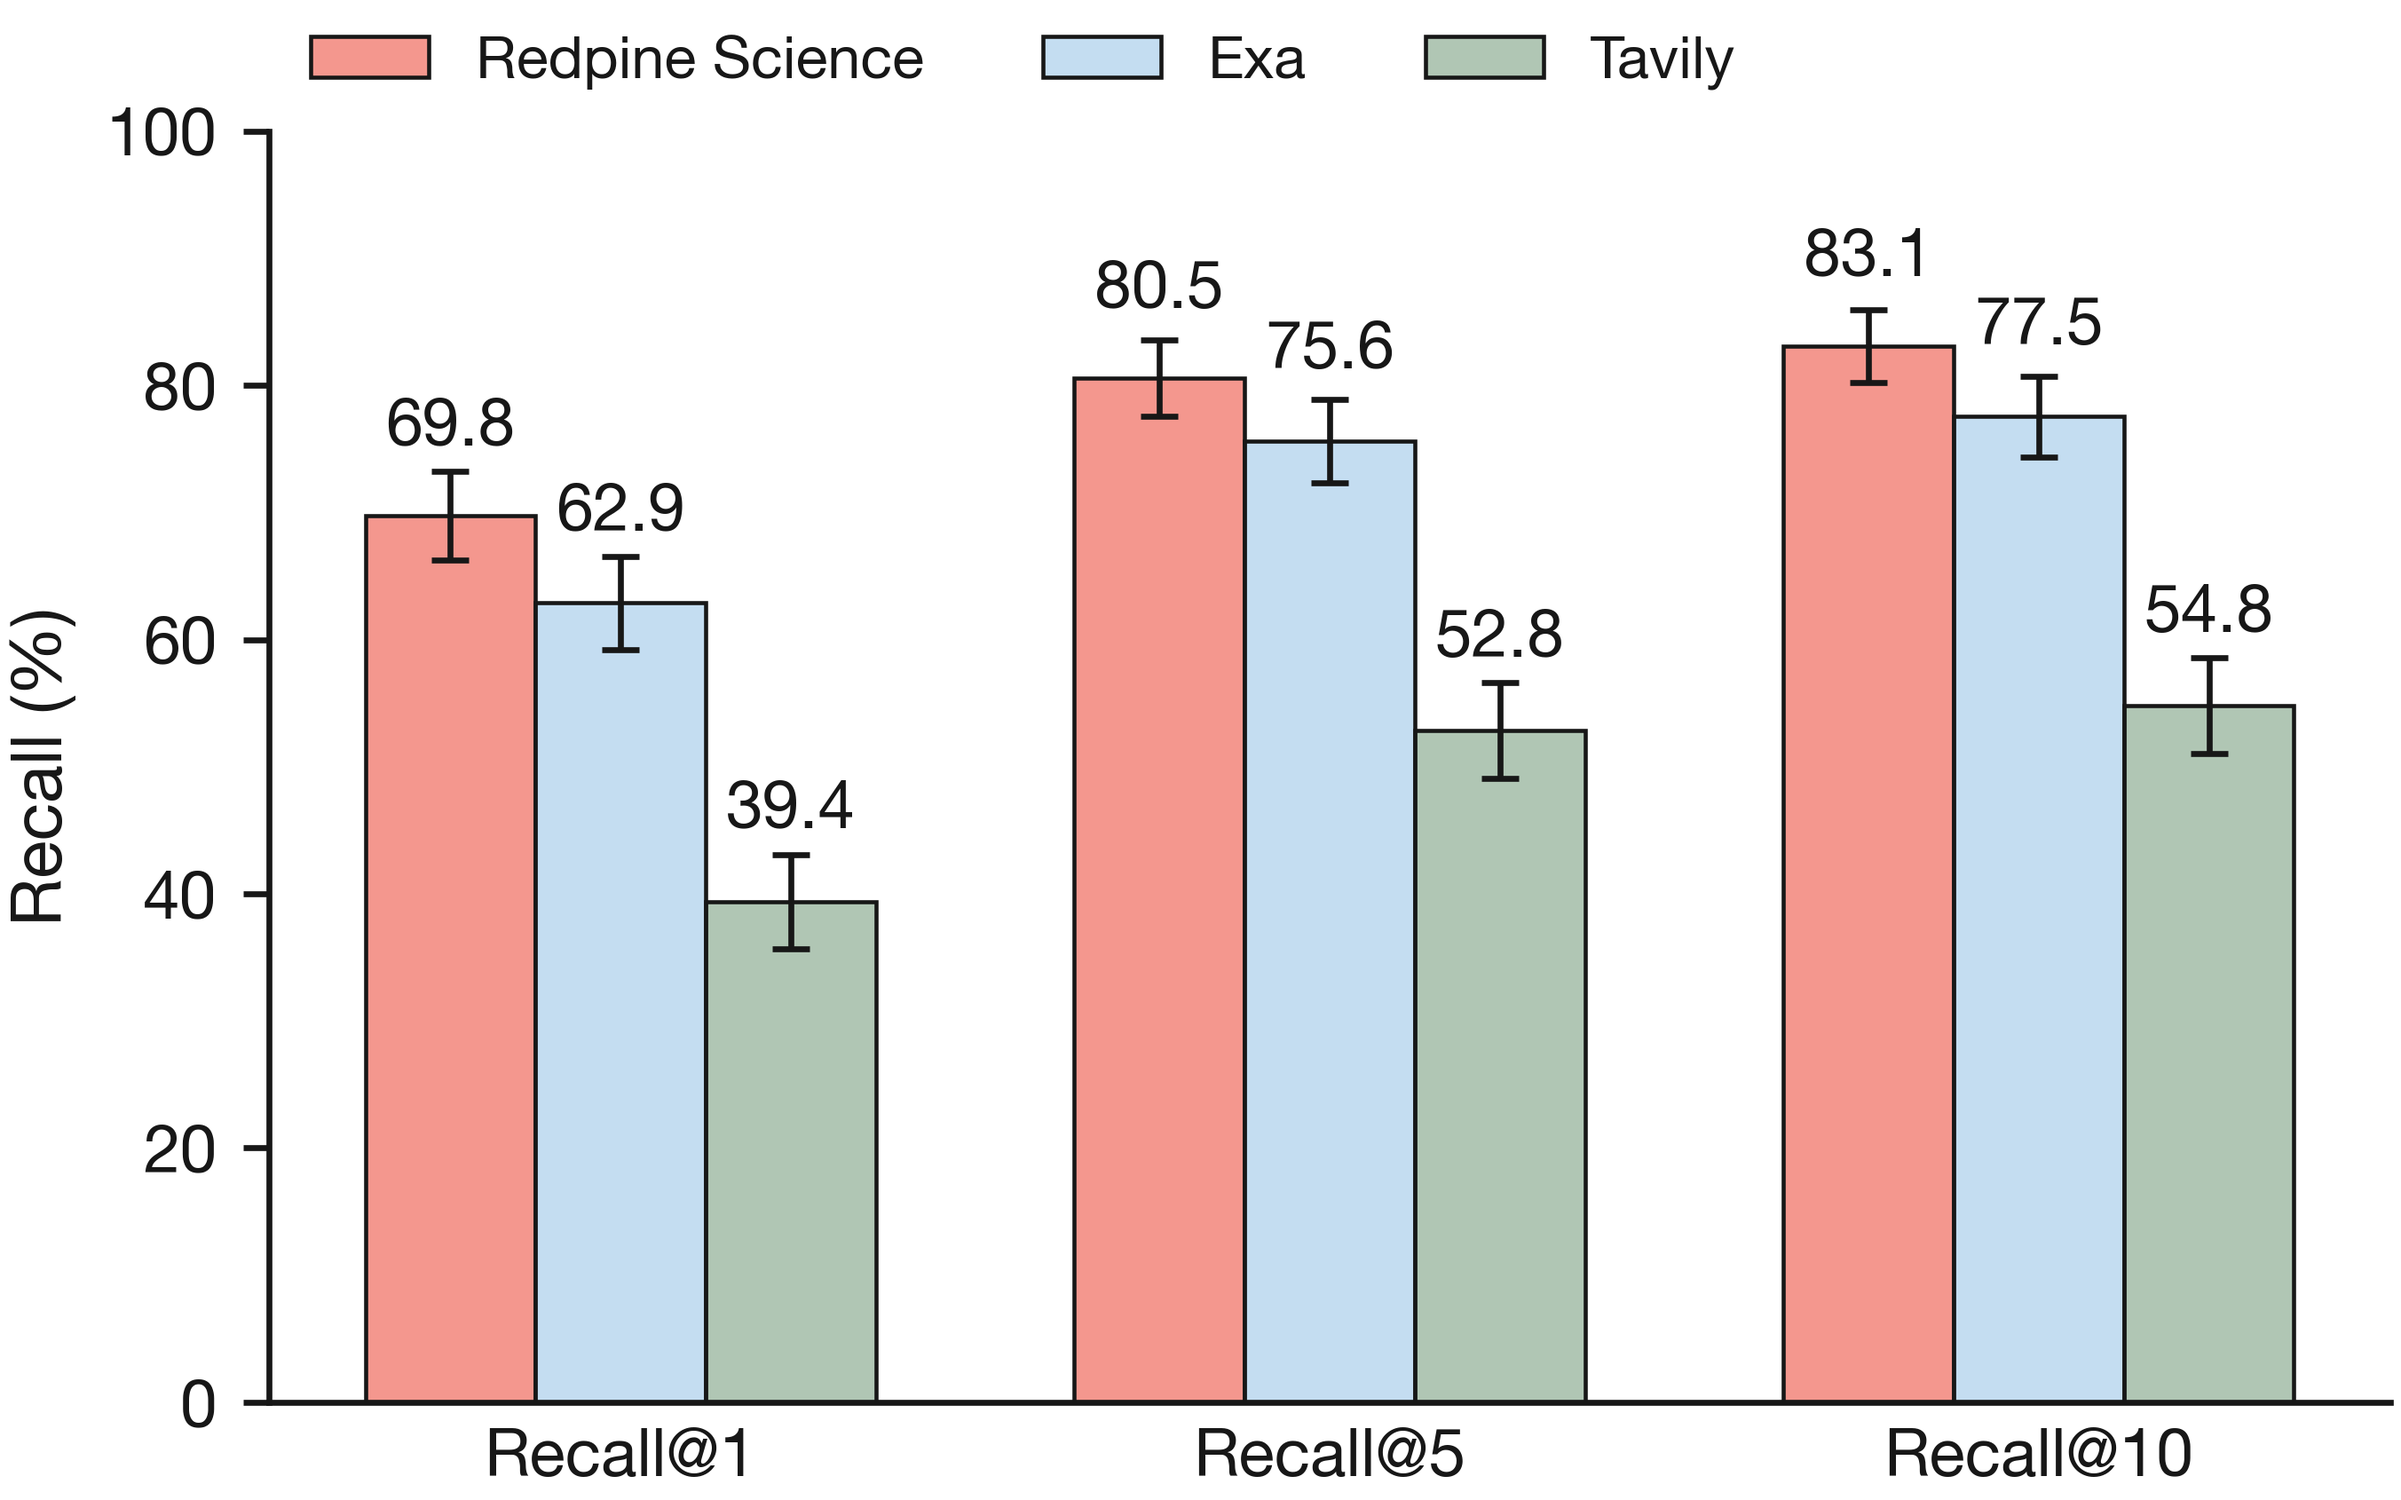
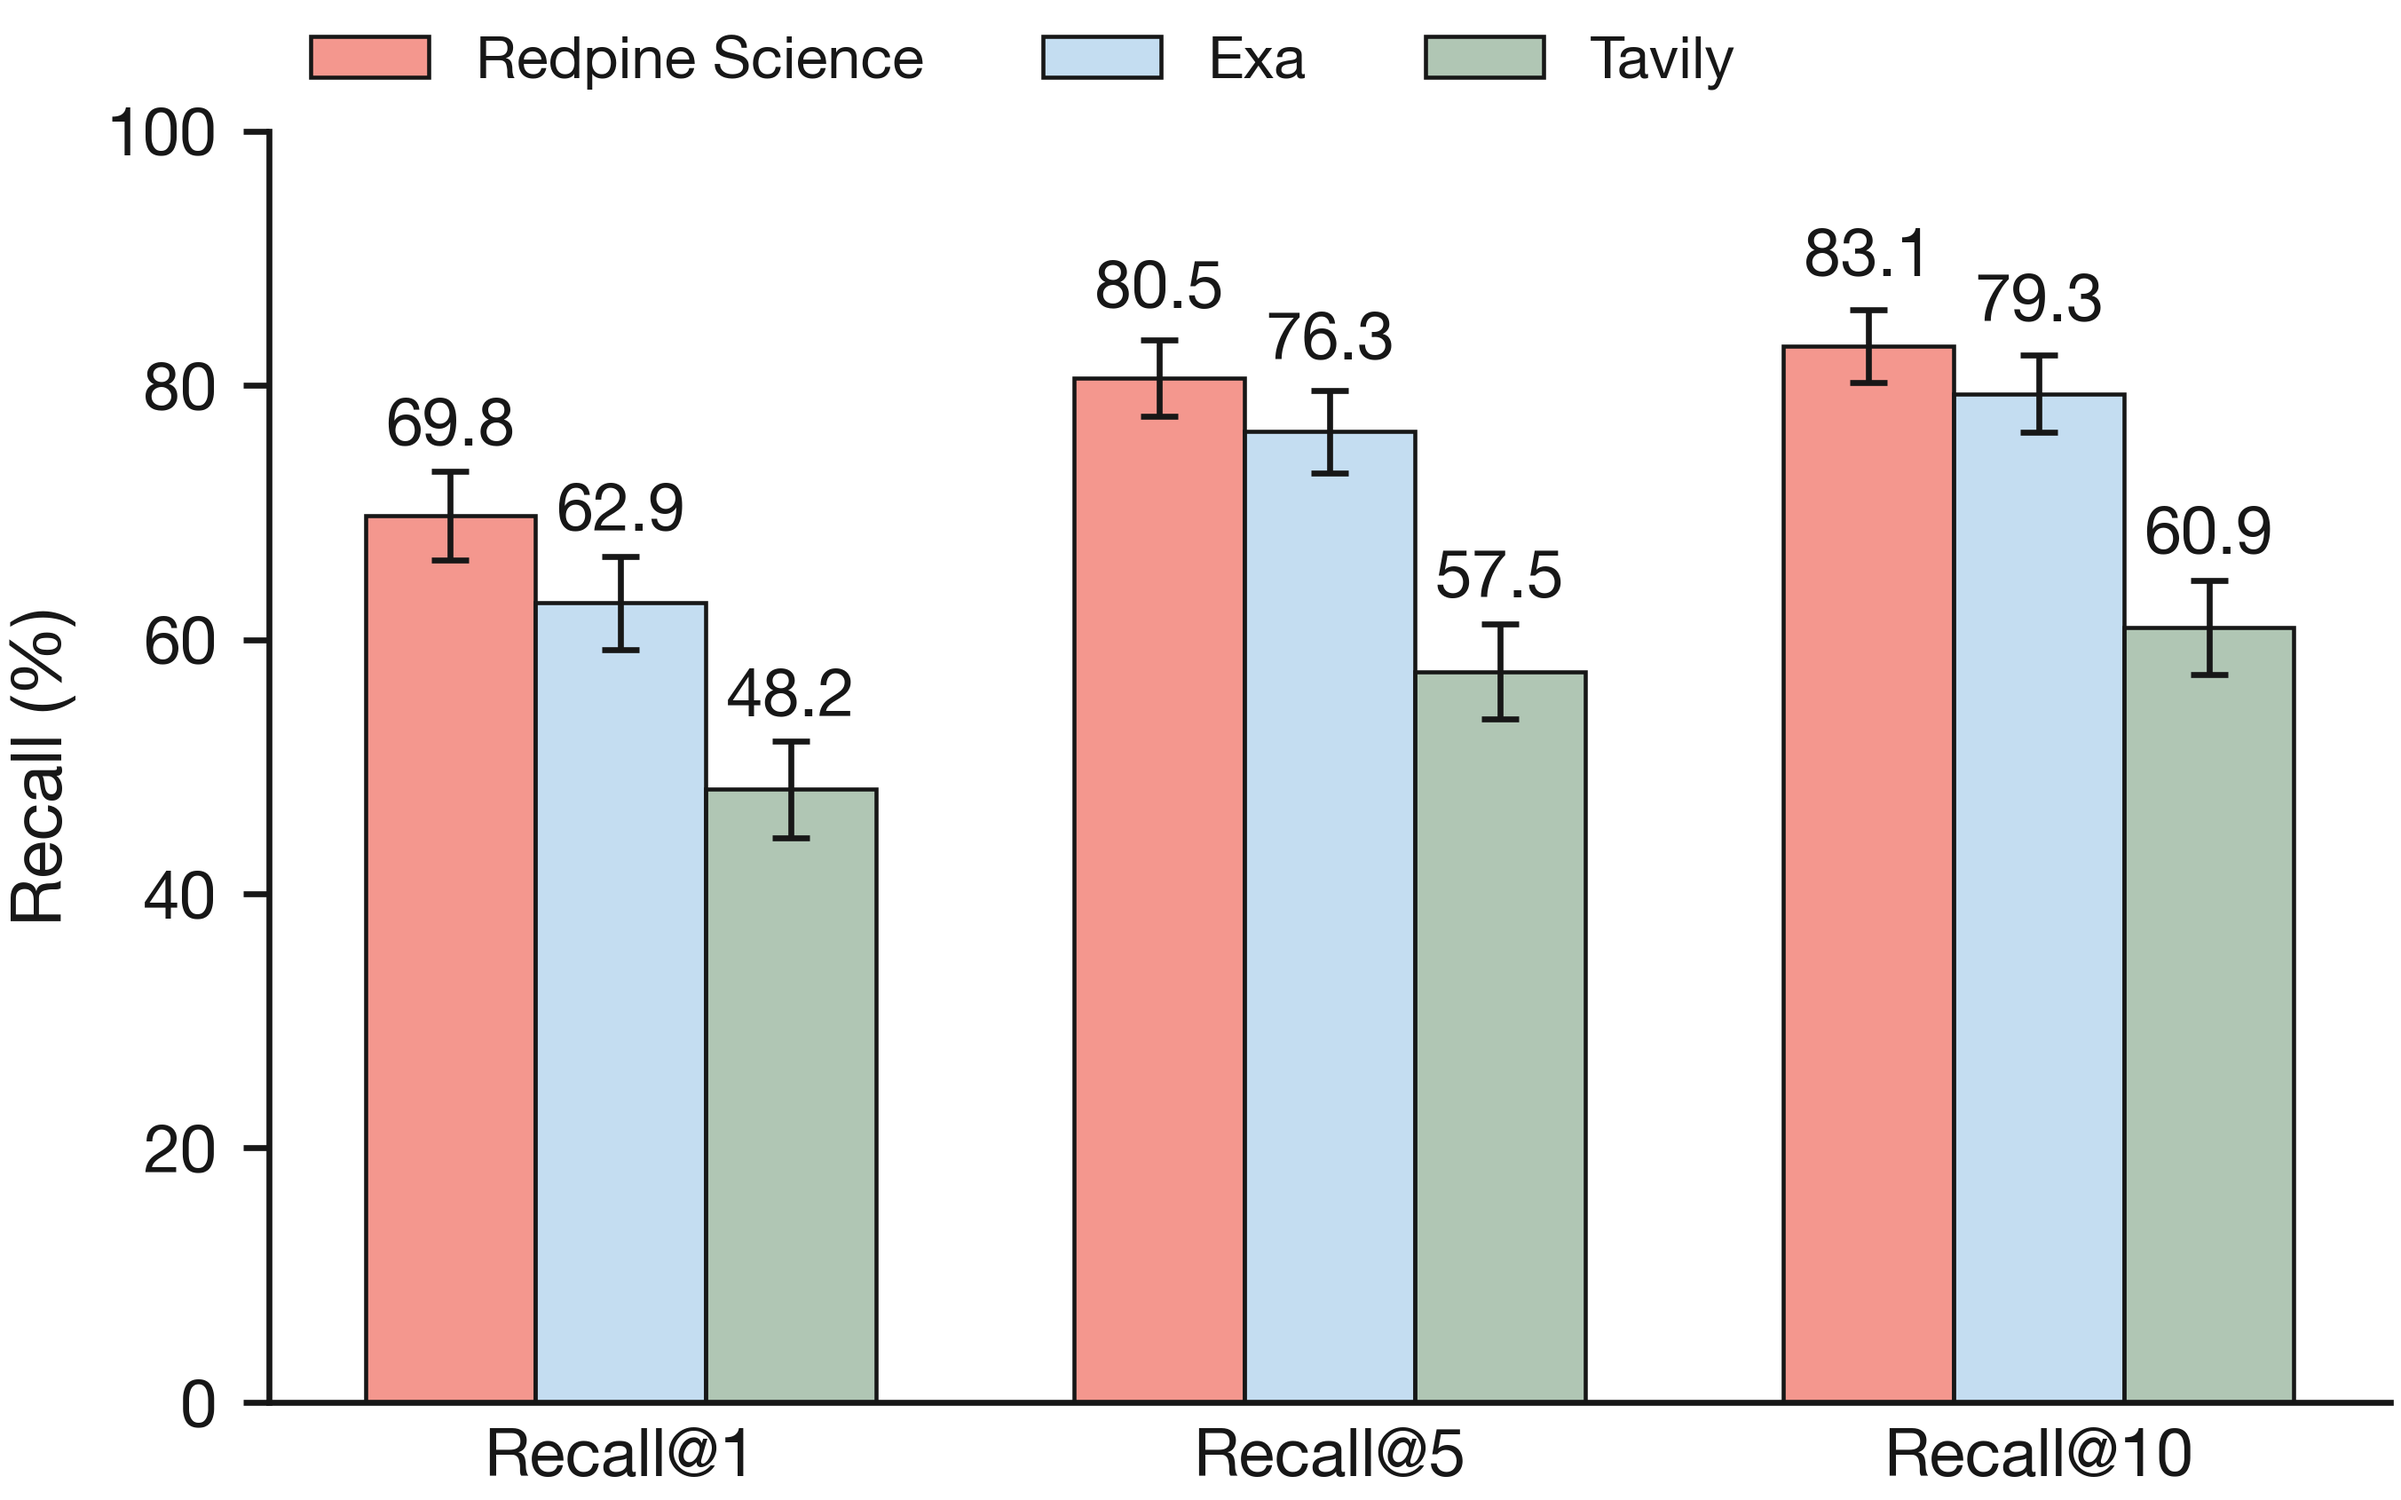
fix(figures): regenerate quadrant three's recall chart with the corrected numbers
The table and prose in main.tex were updated (e31ccde) but this figure
wasn't regenerated, leaving it showing the old pre-fix Exa/Tavily bars --
a real mismatch between the chart and the text it illustrates. Updated the
script's baked-in counts to match and reran it.

diff --git a/figures/fig_quadrant3_recall.py b/figures/fig_quadrant3_recall.py
@@ -6,21 +6,26 @@ benchmark, restricted to the 671 queries whose gold paper is confirmed present
 in Redpine Science's corpus (publication_search_in_corpus_v3.jsonl). Three of
 the 671 queries failed on a transient API error during the run and are
 excluded rather than scored as misses, leaving n=668 actually scored. Matching
-is exact DOI where a system returns one (only Redpine does), else a
-normalized title substring match.
+is exact DOI where a system returns one (only Redpine does, structurally;
+Tavily/Exa can still match on a DOI embedded in a result's URL or snippet
+text, not just a clean field for it), else a normalized title substring
+match (HTML tags stripped whole first, not just their angle brackets).
+Updated 2026-10-02 after checking the matching rule directly against
+exa-labs/benchmarks' own current grader and fixing the two gaps above --
+Redpine is unaffected by design, Exa and Tavily both move up.
 
     System    n    Found   Recall@1   Recall@5   Recall@10   MRR      nDCG
-    Redpine   668  555     69.76%     80.54%     83.08%      0.7440   0.7651
-    Exa       668  518     62.87%     75.60%     77.54%      0.6865   0.7086
-    Tavily    668  366     39.37%     52.84%     54.79%      0.4521   0.4758
+    Redpine   668  555     69.76%     80.54%     83.08%      0.7439   0.7651
+    Exa       668  530     62.87%     76.35%     79.34%      0.6878   0.7137
+    Tavily    668  407     48.20%     57.49%     60.93%      0.5242   0.5446
 
 Exact found-counts at each rank cutoff, derived from each system's rank
 distribution (1-10) and cross-checked against the percentages above:
 
     System    Recall@1 (k/n)   Recall@5 (k/n)   Recall@10 (k/n)
     Redpine   466/668          538/668          555/668
-    Exa       420/668          505/668          518/668
-    Tavily    263/668          353/668          366/668
+    Exa       420/668          510/668          530/668
+    Tavily    322/668          384/668          407/668
 
 Error bars are a Wald (normal-approximation) 95% confidence interval for a
 binomial proportion, computed here from these exact counts -- the same
@@ -55,8 +60,8 @@ N_QUERIES = 668
 # (found, n) at each rank cutoff, one tuple per rank, in RANKS order.
 COUNTS = {
     "redpine": [(466, N_QUERIES), (538, N_QUERIES), (555, N_QUERIES)],
-    "exa":     [(420, N_QUERIES), (505, N_QUERIES), (518, N_QUERIES)],
-    "tavily":  [(263, N_QUERIES), (353, N_QUERIES), (366, N_QUERIES)],
+    "exa":     [(420, N_QUERIES), (510, N_QUERIES), (530, N_QUERIES)],
+    "tavily":  [(322, N_QUERIES), (384, N_QUERIES), (407, N_QUERIES)],
 }
 
 # Plot order left to right within each rank group: Redpine first since it is
